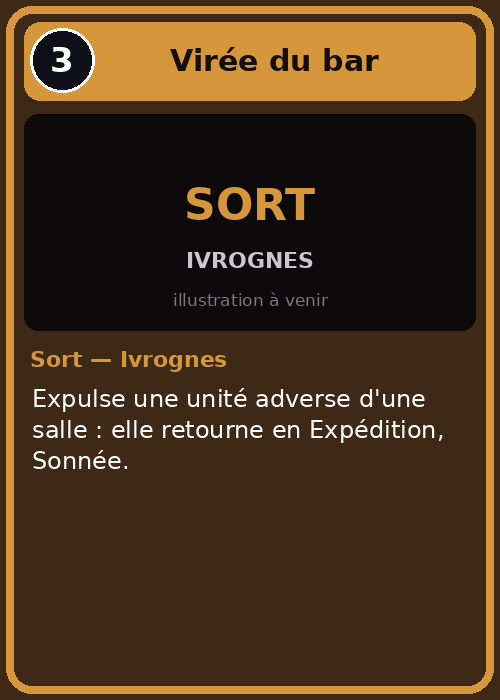
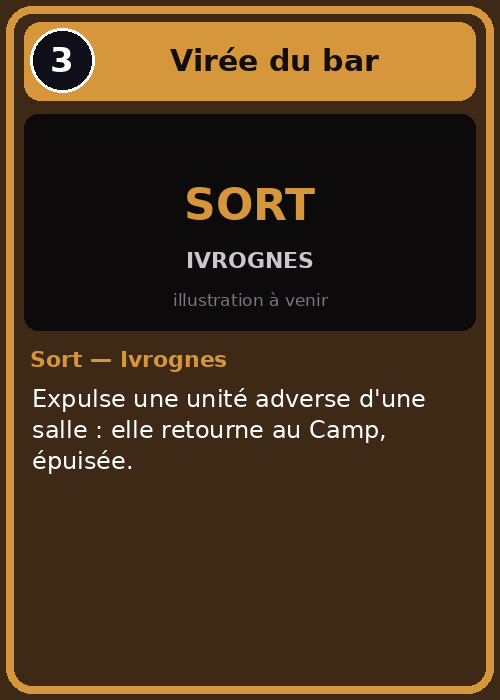
Virée du bar : retour au Camp, épuisée
Claude-Session: https://claude.ai/code/session_01Ei1ETxKFF4cSM4RwXRQ4jQ

Changed region(s): [[0.06, 0.63, 0.27, 0.69], [0.54, 0.6, 0.87, 0.63]]

diff --git a/tools/generate.py b/tools/generate.py
@@ -73,7 +73,7 @@ CARDS = [
     C("roule-baril", "Roulé de baril", "Sort", 2, IVR,
       "Déplace ton baril vers une autre salle, puis 2 dégâts à chaque ennemi de la salle d'arrivée."),
     C("viree-bar", "Virée du bar", "Sort", 3, IVR,
-      "Expulse une unité adverse d'une salle : elle retourne en Expédition, Sonnée."),
+      "Expulse une unité adverse d'une salle : elle retourne au Camp, épuisée."),
     C("ma-tournee", "C'EST MA TOURNÉE !", "Sort", 5, IVR,
       "Toutes tes unités en jeu sont soignées et gagnent +1/+1 jusqu'à la fin du tour. "
       "Tes blessées du Camp reviennent en Expédition. +1 Puissance de plus si ton baril est intact. "
